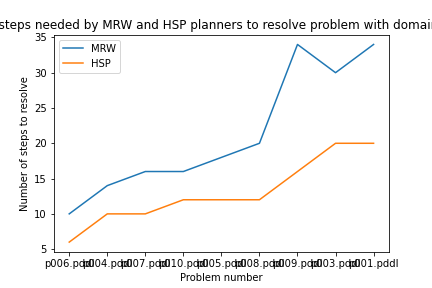
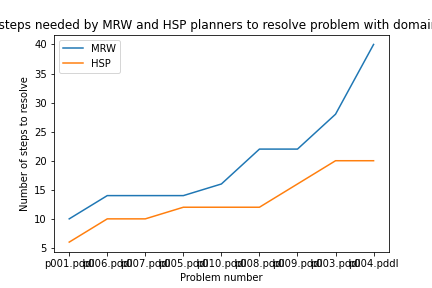
push version finale

diff --git a/src/ASP.java b/src/ASP.java
@@ -255,8 +255,8 @@ public class ASP extends AbstractPlanner {
 
             List<File> blocks_problems = List.of(new File("pddl/problemes_blocks").listFiles());
             List<File> depots_problems = List.of(new File("pddl/problemes_depots").listFiles());
-            List<File> gripper_problems = List.of(new File("pddl/problemes_gripper").listFiles());
-            List<File> logistics_problems = List.of(new File("pddl/problemes_logistics").listFiles());
+            //List<File> gripper_problems = List.of(new File("pddl/problemes_gripper").listFiles());
+            //List<File> logistics_problems = List.of(new File("pddl/problemes_logistics").listFiles());
 
             Map<File, List<File>> pddlFiles = new TreeMap<>();
             pddlFiles.put(new File("pddl/domain_blocks.pddl"), blocks_problems);

diff --git a/pddl/script_graphes.py b/pddl/script_graphes.py
@@ -16,8 +16,8 @@ problems=[]
 
 #on ajoute les valeurs dans chaque vecteur
 for i in data.index:
-    #if data.domain[i] == 'domain_depots.pddl':
-    if data.domain[i] == 'domain_blocks.pddl':
+    if data.domain[i] == 'domain_depots.pddl':
+    #if data.domain[i] == 'domain_blocks.pddl':
         index = i
         times_MRW.append(data.MRW_time_spent[i])
         steps_MRW.append(data.MRW_plan_length[i])
